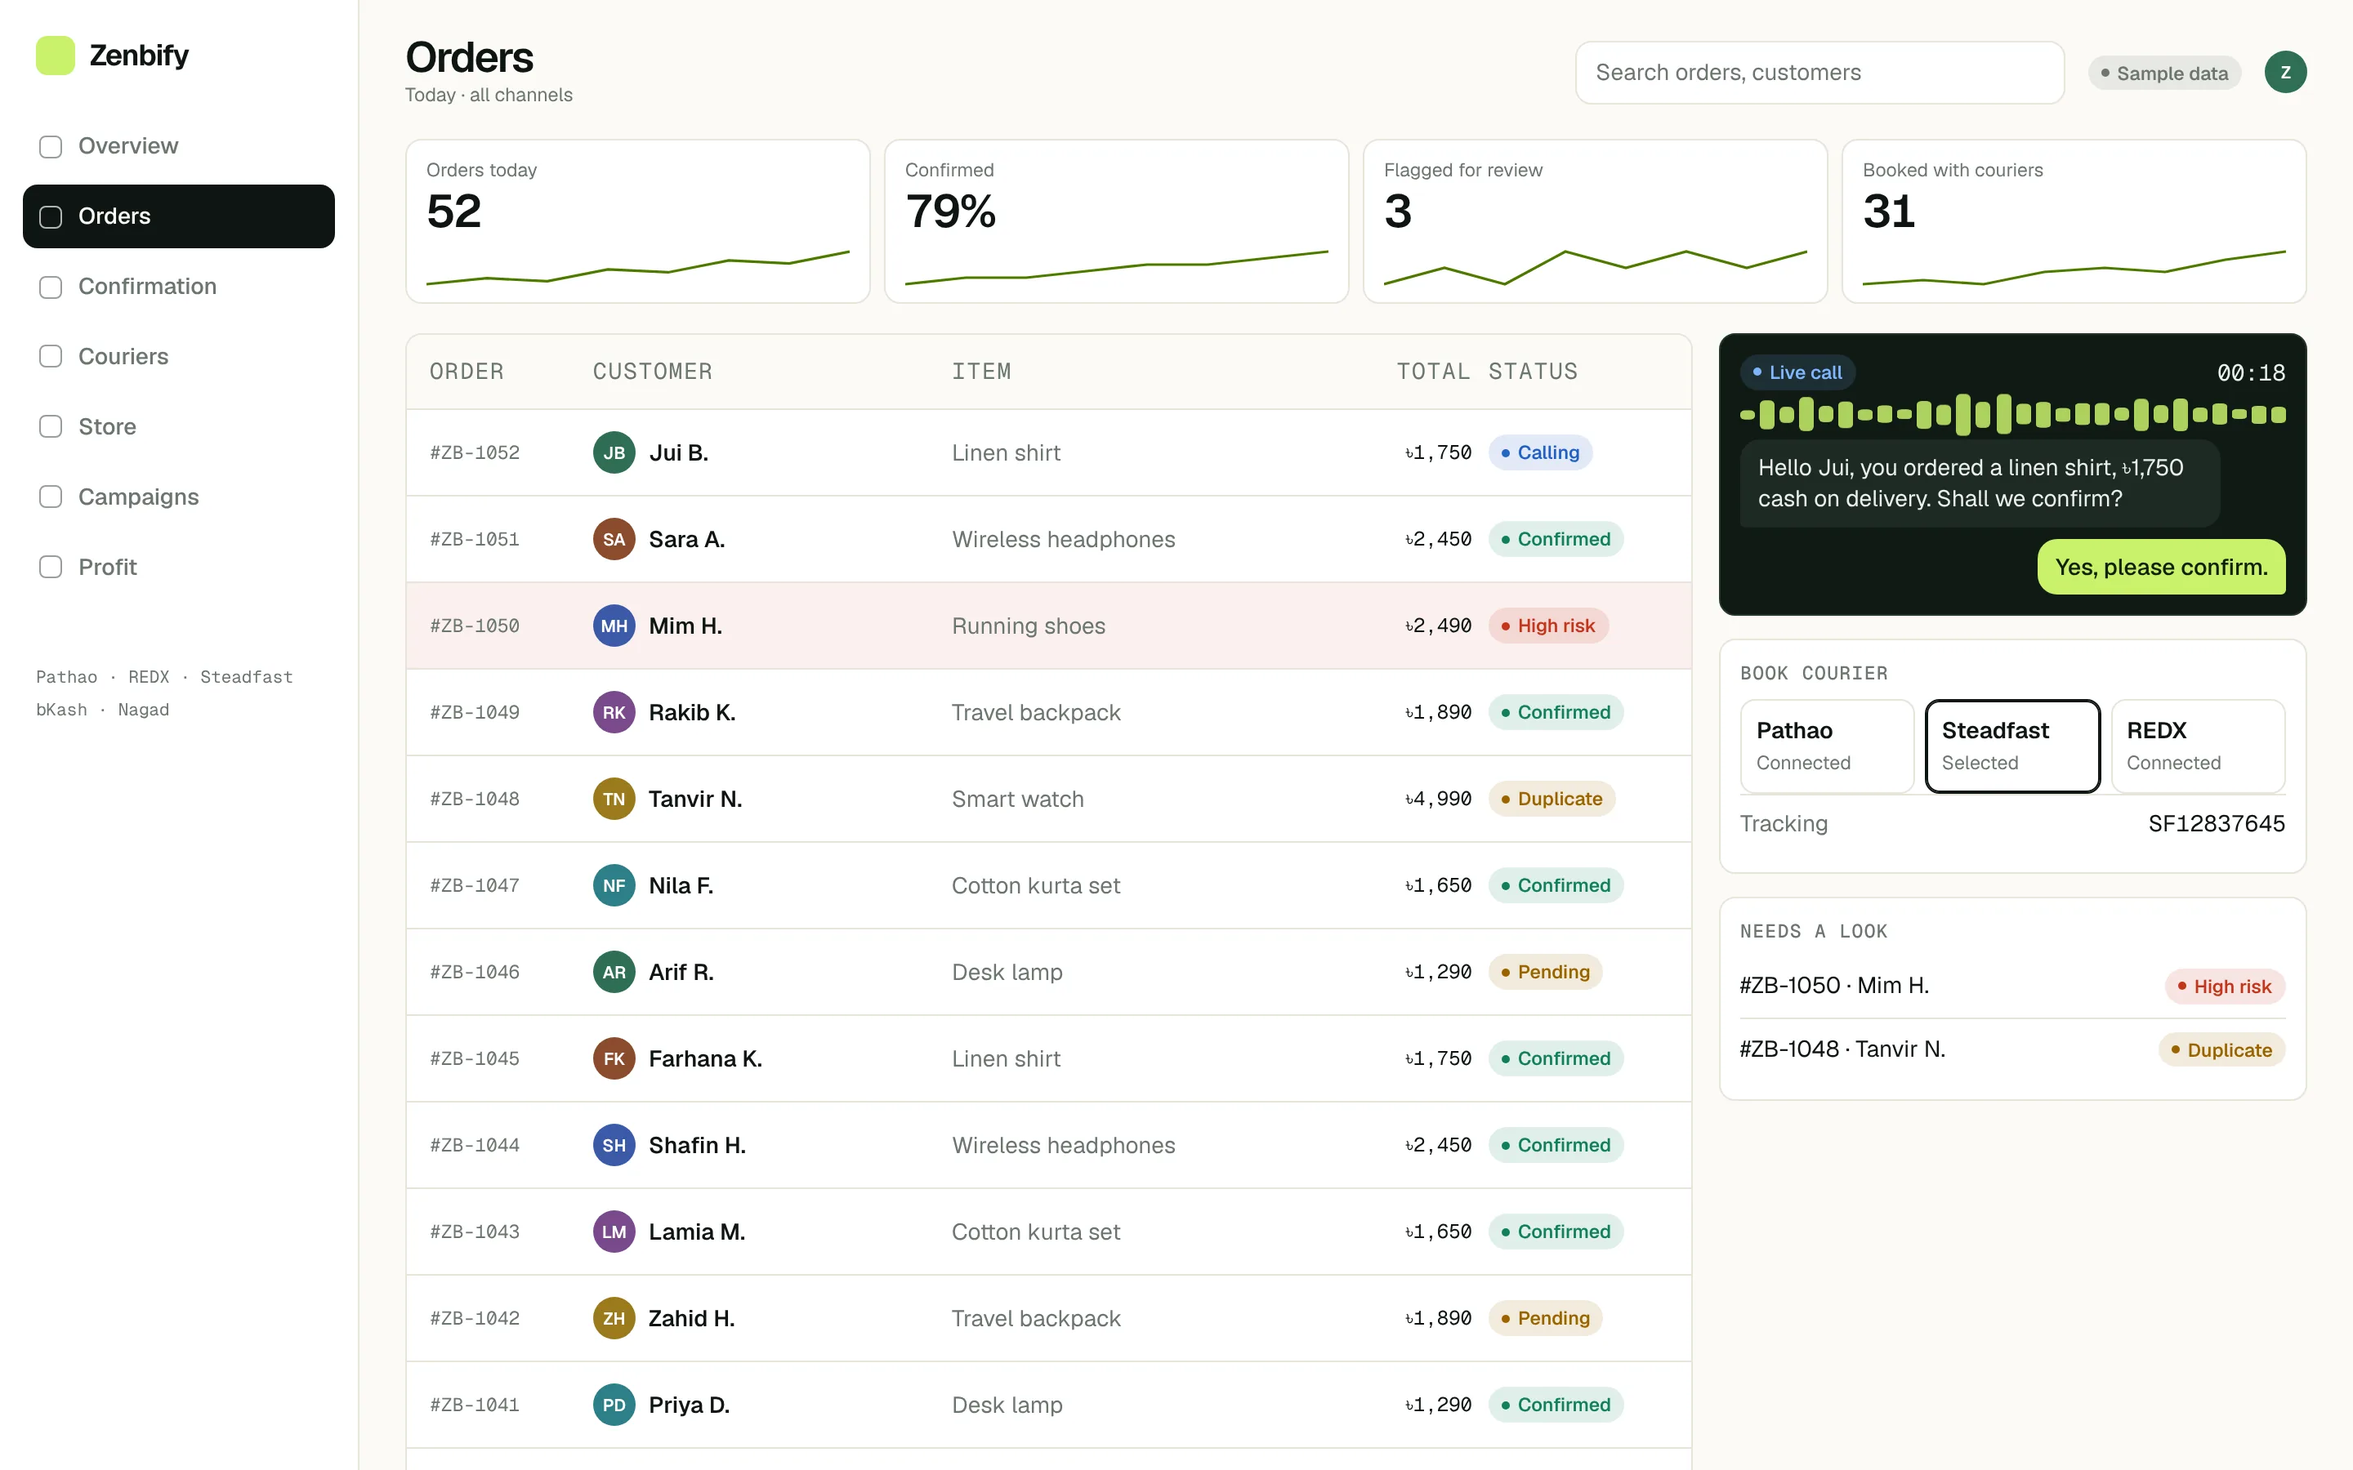
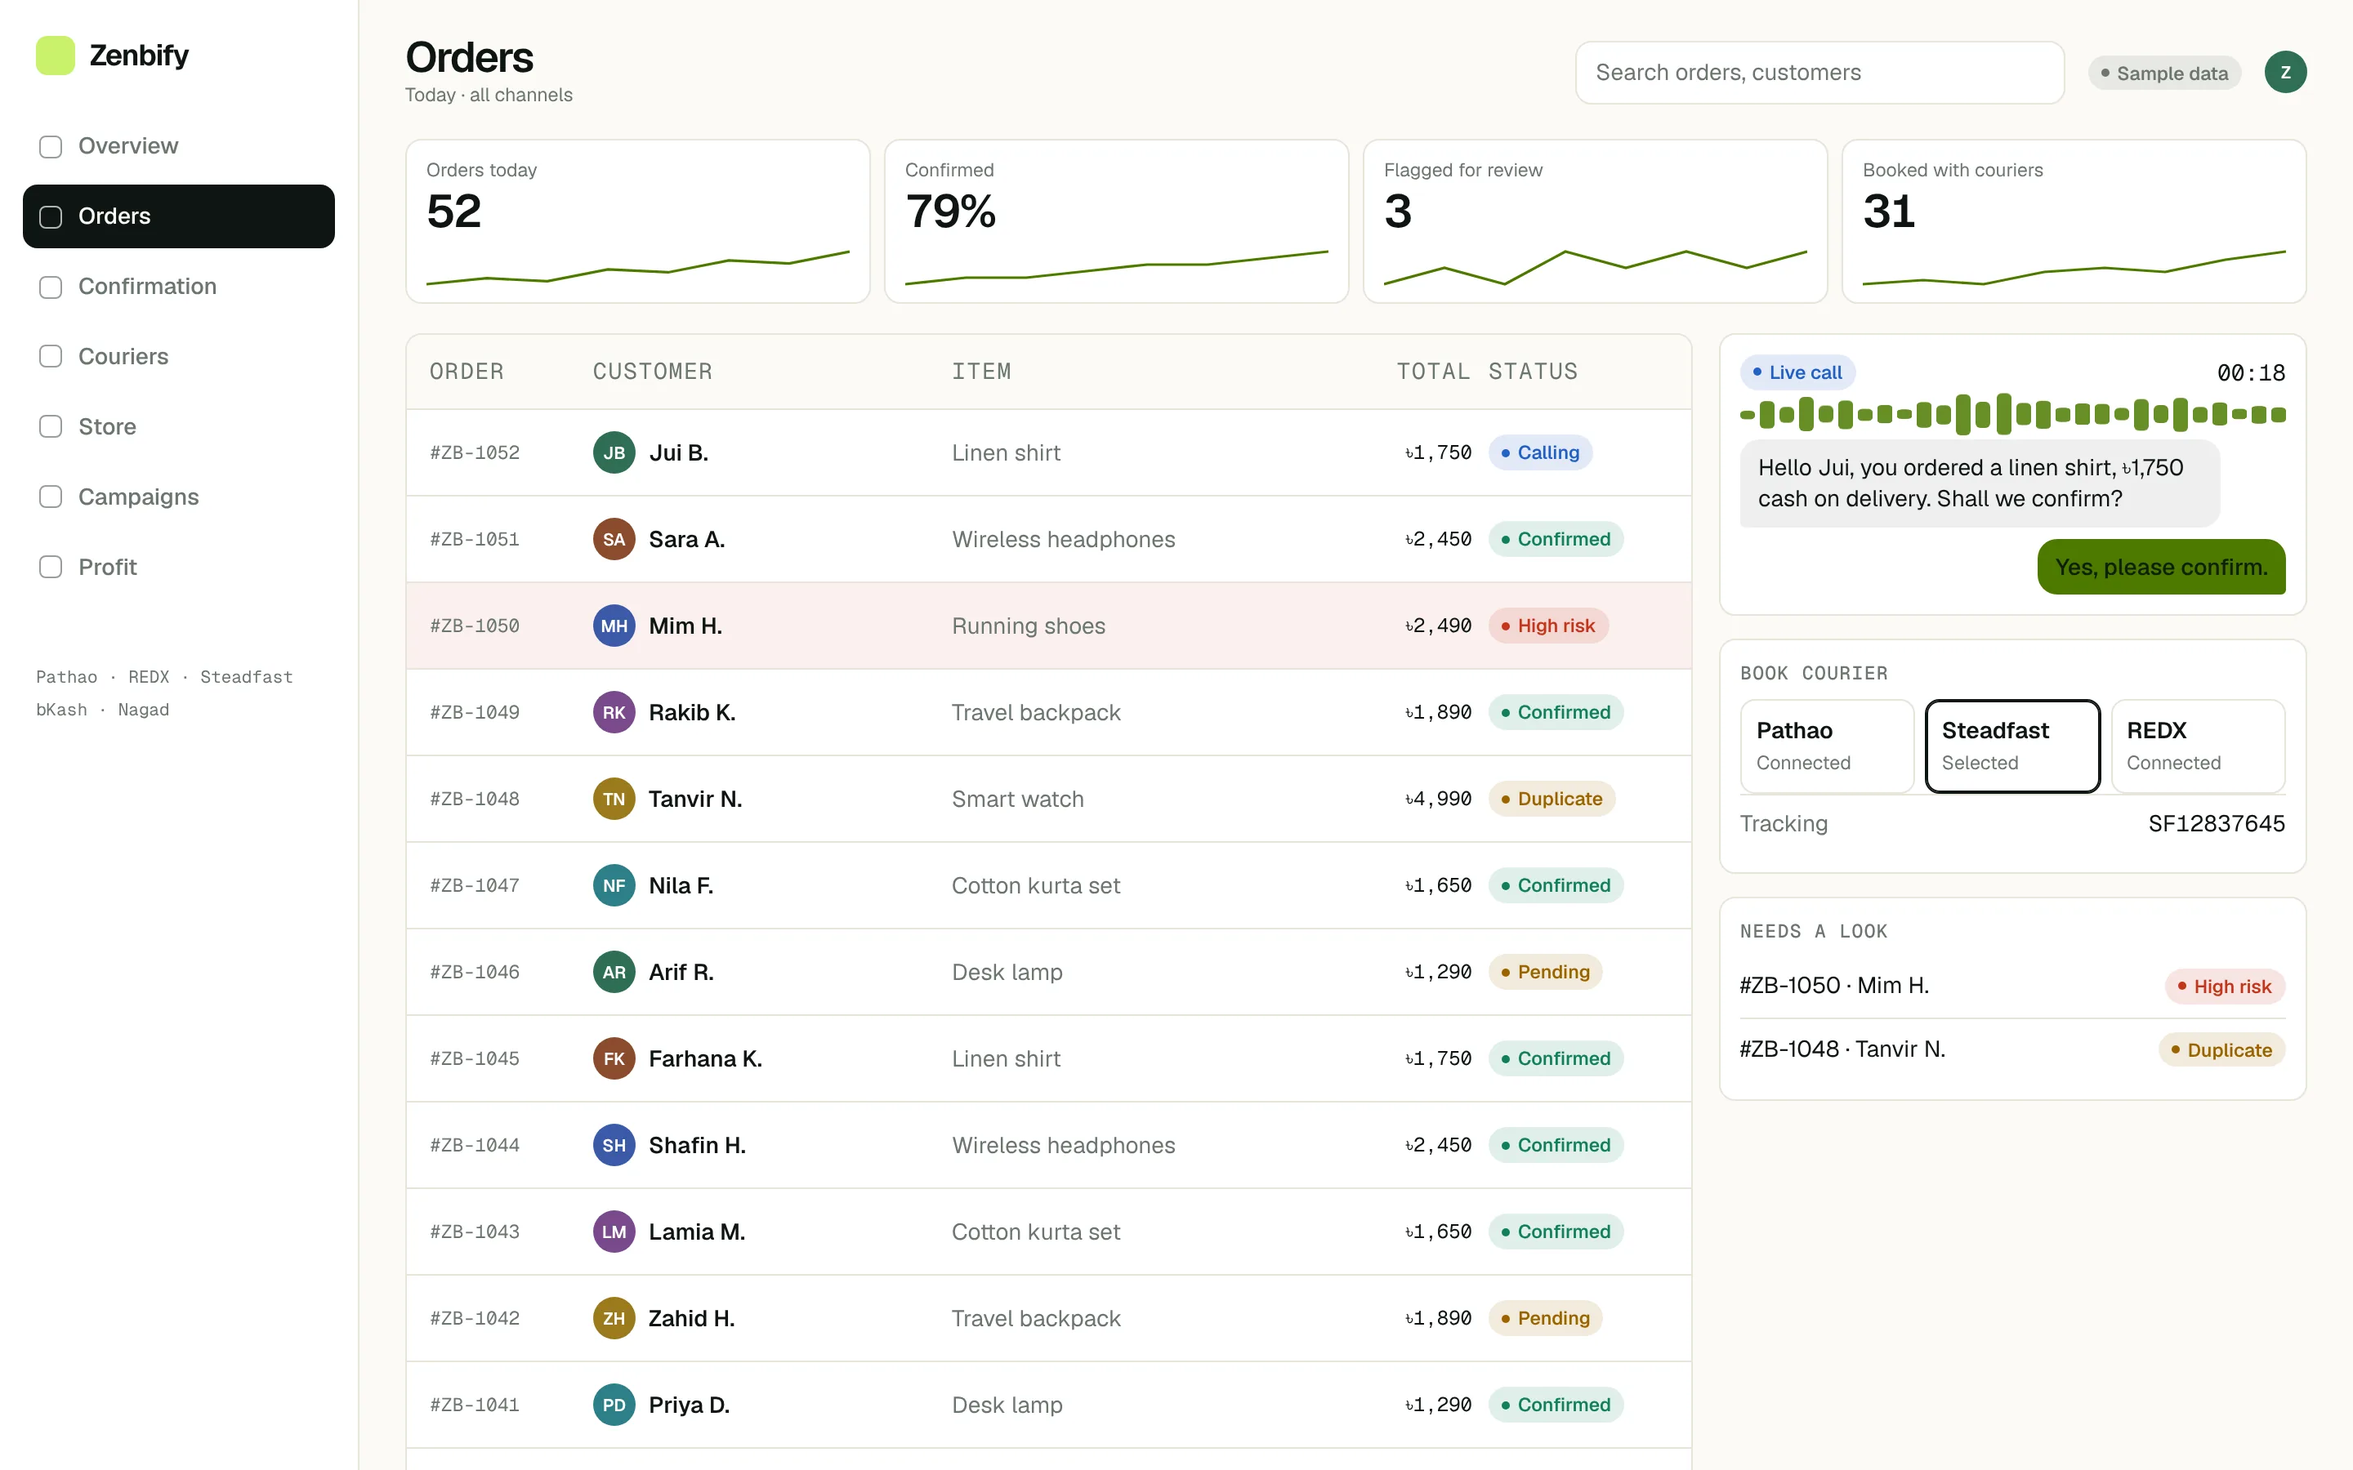
Switch to a light, white Shopify-style theme: white surfaces, black CTAs, light dashboards, light product screens
Claude-Session: https://claude.ai/code/session_01T3KiDgGJXidHsULywGiGjs

Changed region(s): [[0.7188, 0.2178, 1.0, 0.4356]]

diff --git a/app/globals.css b/app/globals.css
@@ -685,3 +685,80 @@ button { font: inherit; color: inherit; }
   .hero-phone { display: block; position: absolute; z-index: 4; width: 168px; right: 190px; bottom: 30px; margin: 0; padding: 6px; background: #0a0f0c; border: 1px solid #2a3a31; border-radius: 30px; filter: drop-shadow(0 30px 40px rgba(0, 0, 0, .55)); animation: rise 1s .7s cubic-bezier(.2,.7,.2,1) both; }
   .hero-phone img { display: block; width: 100%; height: auto; border-radius: 24px; }
 }
+
+/* ═════════ LIGHT THEME (Shopify-style: white, airy, product-led) ═════════
+   Appended last so it wins the cascade. Sections keep their class names. */
+:root { --paper: #ffffff; --paper-2: #f6f6f1; --paper-line: #e6e7e0; --g: #2f5a00; --hair: #e6e7e0; }
+body { background: #fff; color: #0b1410; }
+:focus-visible, .on-paper :focus-visible { outline-color: #0b1410; }
+.on-dark, .on-paper { --fg: #0b1410; --mut: #55605a; --ln: var(--hair); background: #fff; color: var(--fg); }
+.on-dark-2, .on-paper-2 { --fg: #0b1410; --mut: #55605a; --ln: var(--hair); background: #f6f6f1; color: var(--fg); }
+.label b, .on-paper .label b, .on-paper-2 .label b { color: var(--g); }
+.serif-acc, .on-dark .serif-acc, .on-dark-2 .serif-acc, .hero-copy .display .serif, .display .serif { color: var(--g); }
+.fine span::before { color: var(--g); }
+
+/* buttons */
+.btn-primary { background: #0b1410; color: #fff; }
+.btn-primary:hover { background: #1c2a22; box-shadow: 0 12px 26px -12px rgba(11, 20, 16, .55); }
+.btn-ink { background: #0b1410; color: #fff; }
+.btn-line { border-color: #cfd3ca; color: #0b1410; }
+.btn-line:hover { border-color: #0b1410; background: #fff; }
+.btn-ghost { color: #0b1410; } .btn-ghost:hover { background: rgba(11, 20, 16, .06); }
+.skip { background: #0b1410; color: #fff; }
+
+/* header */
+.header { background: rgba(255, 255, 255, .86); border-bottom: 1px solid var(--hair); }
+.header.scrolled { background: rgba(255, 255, 255, .96); box-shadow: 0 10px 30px -20px rgba(11, 20, 16, .35); }
+.logo { color: #0b1410; }
+.nav-d a { color: #3a443f; } .nav-d a:hover, .nav-d a[aria-current="page"] { color: #0b1410; background: rgba(11, 20, 16, .05); }
+.nav-d a::after, .header .progress { background: var(--g); }
+.menu-btn { border-color: #d8dbd2; color: #0b1410; }
+.mpanel { background: #fff; border-top-color: var(--hair); } .mpanel a.ml { border-bottom-color: var(--hair); }
+
+/* hero + page heroes */
+.hero::before, .phero::before { background-image: linear-gradient(#eceee7 1px, transparent 1px), linear-gradient(90deg, #eceee7 1px, transparent 1px); opacity: .9; }
+.hero::after { background: radial-gradient(closest-side, rgba(201, 242, 107, .38), transparent); }
+.phero { border-bottom-color: var(--hair); }
+.hero-copy .display { letter-spacing: -0.05em; font-weight: 600; }
+.strip { background: #fff; border-color: var(--hair); }
+.strip ul { color: #1c2a22; } .strip ul li i { background: var(--g); }
+.jump a { border-color: #d8dbd2; color: #2b362f; } .jump a:hover { border-color: #0b1410; color: #0b1410; }
+
+/* live caption, captions */
+.live-cap .dot.on { background: var(--g); } .live-cap button { border-color: #d8dbd2; color: #0b1410; } .live-cap button:hover { border-color: #0b1410; color: #0b1410; }
+.vp-cap, .gv-note { color: #7b857f; }
+
+/* workflow stage becomes a soft panel */
+.viewport { background: #eef0e8; border: 1px solid var(--hair); }
+.tab .fill, .on-paper-2 .tab .fill { background: var(--g); }
+
+/* lists */
+.ticks li span { color: var(--g); border-color: #d8dbd2; } .ticks li:hover span { background: #0b1410; color: #fff; }
+.theme-list, .theme-list li { border-color: var(--hair); } .theme-list li:hover { color: var(--g); }
+
+/* integrations island */
+.island { --fg: #0b1410; --mut: #55605a; --ln: var(--hair); background: #f6f6f1; color: #0b1410; border: 1px solid var(--hair); }
+.island::before { background-image: radial-gradient(rgba(11, 20, 16, .12) 1px, transparent 1.2px); }
+.group { background: #fff; border-color: var(--hair); }
+.chips li { background: #fff; border-color: #dfe2d9; color: #0b1410; } .chips li em { color: var(--g); }
+.hcol.l .group::after, .hcol.r .group::before { background: repeating-linear-gradient(90deg, #7aa22a 0 5px, transparent 5px 10px); }
+.core-box { box-shadow: 0 0 0 10px rgba(201, 242, 107, .25), 0 0 0 22px rgba(201, 242, 107, .12); }
+.miniflow li { border-color: #dfe2d9; color: #2b362f; background: #fff; }
+
+/* manifesto */
+.js .sw span { color: #cfd3ca; } .js .sw span.lit { color: #0b1410; }
+.sw span.acc, .js .sw span.acc.lit { color: var(--g); }
+
+/* contact hotline, pricing dark plan stays dark */
+.hot { color: var(--g); }
+
+/* final CTA: soft lime panel */
+.cta { background: #eef6d6; } .cta::before { background: none; }
+.cta .display { color: #0b1410; }
+
+/* footer */
+.footer { background: #f6f6f1; border-top: 1px solid var(--hair); color: #4a554e; }
+.footer a:hover { color: #0b1410; } .footer h4 { color: #7b857f; } .fbot { border-top-color: var(--hair); }
+.fbig { -webkit-text-stroke: 1px #d6dad0; }
+
+@media (prefers-reduced-motion: reduce) { .js .sw span { color: #0b1410; } .js .sw span.acc { color: var(--g); } }

diff --git a/components/mocks.tsx b/components/mocks.tsx
@@ -96,7 +96,7 @@ export function OrdersApp({ label = "Orders dashboard with confirmation, duplica
 
 export function AiCall({ className = "" }: { className?: string }) {
   return (
-    <AppWin title="AI confirmation call" dk className={className} label="AI confirmation call card with sample transcript">
+    <AppWin title="AI confirmation call" className={className} label="AI confirmation call card with sample transcript">
       <div className="a-title"><span className="pill call">Live call</span><span className="mono" style={{ color: "var(--a-mut)", fontSize: 11 }}>00:18</span></div>
       <Wave />
       <div className="chat">
@@ -234,7 +234,7 @@ export function ProfitChart() {
 
 export function ProfitApp() {
   return (
-    <AppWin title="zenbify / profit" dk label="Profit dashboard with revenue, costs, net profit, trend chart and top products, using sample data">
+    <AppWin title="zenbify / profit" label="Profit dashboard with revenue, costs, net profit, trend chart and top products, using sample data">
       <div className="kpis">
         <div className="kpi"><small>Revenue</small><strong><CountUp value={124500} /></strong><span className="d">+12%</span></div>
         <div className="kpi"><small>Costs</small><strong><CountUp value={76250} /></strong><span className="d" style={{ color: "var(--a-mut)" }}>incl. delivery</span></div>
@@ -258,7 +258,7 @@ export function ProfitApp() {
 
 export function Recovery({ className = "" }: { className?: string }) {
   return (
-    <AppWin title="Failed order recovery" dk className={className} label="Failed order recovery card, using sample data">
+    <AppWin title="Failed order recovery" className={className} label="Failed order recovery card, using sample data">
       <div className="a-title"><strong>Failed delivery · #ZB-1039</strong><Pill tone="wait">Recovering</Pill></div>
       <ul className="steps-a">
         <li className="done"><span><b>Delivery failed</b><br /><small>Customer unreachable</small></span><small>09:12</small></li>

diff --git a/app/capture/page.tsx b/app/capture/page.tsx
@@ -74,7 +74,7 @@ function DashLight() {
             ))}
           </div>
           <div className="cx-right">
-            <div className="card-a dkc">
+            <div className="card-a">
               <div className="a-title"><span className="pill call">Live call</span><span className="mono">00:18</span></div>
               <Wave />
               <div className="chat"><div className="bubble">Hello Jui, you ordered a linen shirt, ৳1,750 cash on delivery. Shall we confirm?</div><div className="bubble me">Yes, please confirm.</div></div>
@@ -98,7 +98,7 @@ function DashLight() {
 
 function DashDark() {
   return (
-    <div className="app dk cx" id="s-profit" style={{ width: 1440, height: 900 }}>
+    <div className="app cx" id="s-profit" style={{ width: 1440, height: 900 }}>
       <Side active="Profit" />
       <div className="cx-main">
         <Top title="Profit" sub="Last 12 weeks" />

diff --git a/app/features/page.tsx b/app/features/page.tsx
@@ -24,7 +24,7 @@ export default function Features() {
       <section className="phero on-dark">
         <div className="wrap">
           <span className="label"><b>●</b> Features</span>
-          <h1 className="display">Everything you need to <span className="serif" style={{ color: "var(--lime)" }}>run your business.</span></h1>
+          <h1 className="display">Everything you need to <span className="serif">run your business.</span></h1>
           <p className="lead">From building your store to marketing, orders, delivery and automation, grouped by the job you are trying to do.</p>
           <nav className="jump" aria-label="Feature groups">{pillars.map((p) => <a key={p.id} href={`#${p.id}`}>{p.title}</a>)}</nav>
         </div>

diff --git a/components/LiveHero.tsx b/components/LiveHero.tsx
@@ -106,7 +106,7 @@ export function LiveHero() {
         </div>
       </AppWin>
 
-      <AppWin title="AI confirmation call" dk className="fl call" label="AI confirmation call card with sample transcript">
+      <AppWin title="AI confirmation call" className="fl call" label="AI confirmation call card with sample transcript">
         <div className="a-title">
           {flag && phase >= 1 ? <span className="pill risk">Not called</span> : calling ? <span className="pill call">Live call</span> : done ? <span className="pill ok">Call complete</span> : <span className="pill wait">Queued</span>}
           <span className="mono" style={{ color: "var(--a-mut)", fontSize: 11 }}>{calling ? "00:07" : done ? "00:18" : "00:00"}</span>

diff --git a/app/about-us/page.tsx b/app/about-us/page.tsx
@@ -22,7 +22,7 @@ export default function About() {
       <section className="phero on-dark">
         <div className="wrap">
           <span className="label"><b>●</b> About Zenbify</span>
-          <h1 className="display" style={{ maxWidth: "18ch" }}>Behind every store is someone <span className="serif" style={{ color: "var(--lime)" }}>building something of their own.</span></h1>
+          <h1 className="display" style={{ maxWidth: "18ch" }}>Behind every store is someone <span className="serif">building something of their own.</span></h1>
         </div>
       </section>
       <section className="sec on-paper">

diff --git a/app/not-found.tsx b/app/not-found.tsx
@@ -5,7 +5,7 @@ export default function NotFound() {
     <section className="phero on-dark" style={{ minHeight: "60vh" }}>
       <div className="wrap">
         <span className="label"><b>404</b> Not found</span>
-        <h1 className="display">That page <span className="serif" style={{ color: "var(--lime)" }}>doesn’t exist.</span></h1>
+        <h1 className="display">That page <span className="serif">doesn’t exist.</span></h1>
         <div className="btn-row"><Button href="/" arrow>Back to home</Button><Button href="/features" variant="line">See features</Button></div>
       </div>
     </section>

diff --git a/app/contact-us/page.tsx b/app/contact-us/page.tsx
@@ -14,7 +14,7 @@ export default function Contact() {
       <section className="phero on-dark">
         <div className="wrap">
           <span className="label"><b>●</b> Contact us</span>
-          <h1 className="display">Talk to the <span className="serif" style={{ color: "var(--lime)" }}>Zenbify team.</span></h1>
+          <h1 className="display">Talk to the <span className="serif">Zenbify team.</span></h1>
           <p className="lead">Ask about storefronts, payments, automation or which plan fits your store.</p>
         </div>
       </section>

diff --git a/app/trust/page.tsx b/app/trust/page.tsx
@@ -14,7 +14,7 @@ export default function Trust() {
       <section className="phero on-dark">
         <div className="wrap">
           <span className="label"><b>●</b> Trust and support</span>
-          <h1 className="display">Know who you are <span className="serif" style={{ color: "var(--lime)" }}>working with.</span></h1>
+          <h1 className="display">Know who you are <span className="serif">working with.</span></h1>
           <p className="lead">How to reach us, and the policies that govern your account.</p>
         </div>
       </section>

diff --git a/app/pricing/page.tsx b/app/pricing/page.tsx
@@ -17,7 +17,7 @@ export default function PricingPage() {
       <section className="phero on-dark">
         <div className="wrap">
           <span className="label"><b>●</b> Pricing</span>
-          <h1 className="display">Big ambitions. <span className="serif" style={{ color: "var(--lime)" }}>A plan that fits.</span></h1>
+          <h1 className="display">Big ambitions. <span className="serif">A plan that fits.</span></h1>
           <p className="lead">Start free. No credit card required.</p>
         </div>
       </section>

diff --git a/components/ProcessFlow.tsx b/components/ProcessFlow.tsx
@@ -2,7 +2,7 @@ import type { ReactNode } from "react";
 import { workflow } from "@/content/site";
 
 const S = { fill: "none", stroke: "currentColor", strokeWidth: 2, strokeLinecap: "round", strokeLinejoin: "round" } as const;
-const A = "var(--lime)";
+const A = "#c9f26b";
 
 /** Illustrated stations, drawn for each workflow step. */
 const art: ReactNode[] = [
